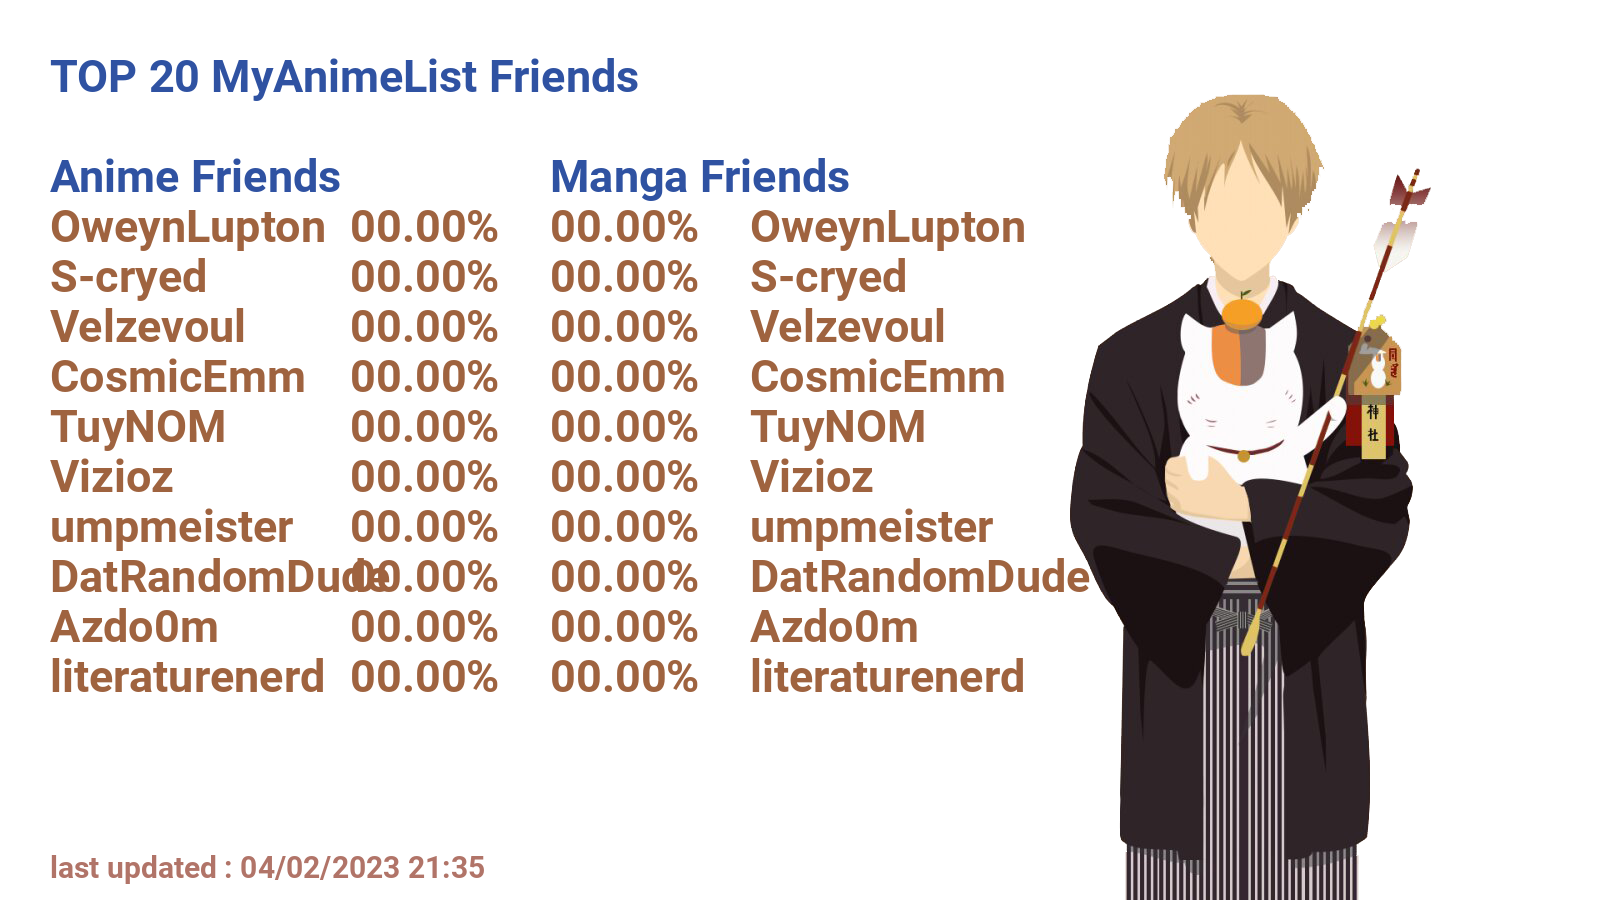
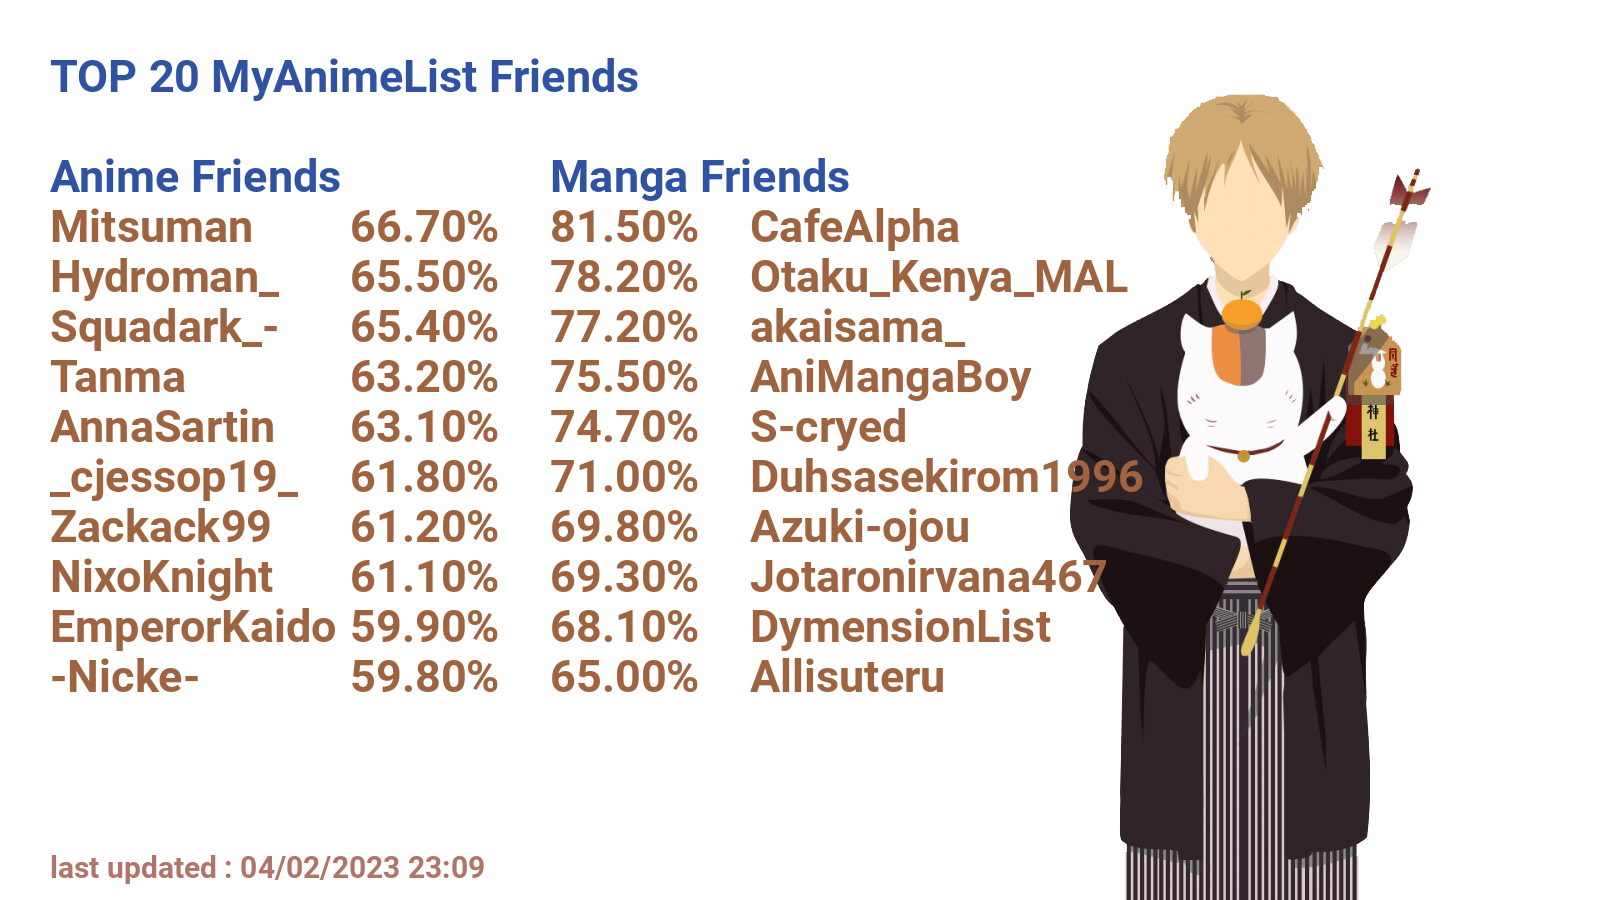
updates

diff --git a/AffinityScraperMAL/spiders/weebo.py b/AffinityScraperMAL/spiders/weebo.py
@@ -51,37 +51,35 @@ for i in range(0,len(friend_names)):
 
 class MAL_spider(scrapy.Spider):
     name = 'weebo'
-    mal_login_url = 'https://myanimelist.net/login.php'
+    mal_login_url = 'https://myanimelist.net/'
     start_urls = [mal_login_url]
 
     user_name = AffinityScraperMAL.spiders.credentials.user_name
     password = AffinityScraperMAL.spiders.credentials.password
-    chrome_options = Options()
-    #chrome_options.add_argument("--disable-gpu")
-    chrome_options.add_argument("--headless")
-    global driver
-    driver = webdriver.Chrome(options=chrome_options)
-
-    driver.get('https://myanimelist.net/login.php')
-    if("Login" in driver.title):
-        id_box = driver.find_element(By.NAME, 'user_name')
-        id_box.send_keys(user_name)
-        password_box = driver.find_element(By.NAME, 'password')
-        password_box.send_keys(password)
-        login_button = driver.find_element(By.CLASS_NAME, "btn-form-submit")
-        driver.execute_script("arguments[0].click();", login_button)
-        #login_button.click()
-    time.sleep(1)
-
-    token = None
+#    token = None
 
     def parse(self, response):
-        if self.password == '':
-            self.logger.error('first add a pasword')
-            return
-        self.token = response.xpath('//meta[@name="csrf_token"]/@content').extract()
-        self.log('token {}'.format(self.token))
+#        if self.password == '':
+#            self.logger.error('first add a pasword')
+#            return
+#        self.token = response.xpath('//meta[@name="csrf_token"]/@content').extract()
+#        self.log('token {}'.format(self.token))
+        chrome_options = Options()
+        #chrome_options.add_argument("--disable-gpu")
+        chrome_options.add_argument("--headless")
+        global driver
+        driver = webdriver.Chrome(options=chrome_options)
 
+        driver.get('https://myanimelist.net/login.php')
+        if("Login" in driver.title):
+            id_box = driver.find_element(By.NAME, 'user_name')
+            id_box.send_keys(self.user_name)
+            password_box = driver.find_element(By.NAME, 'password')
+            password_box.send_keys(self.password)
+            login_button = driver.find_element(By.CLASS_NAME, "btn-form-submit")
+            driver.execute_script("arguments[0].click();", login_button)
+            #login_button.click()
+        time.sleep(1)
         return [FormRequest(
                     url = self.mal_login_url,
                     cookies=driver.get_cookies(),
@@ -97,16 +95,23 @@ class MAL_spider(scrapy.Spider):
                 callback=self.action)
 
     def action(self, response):
-        affinity = response.xpath('/html/body/div[1]/div[2]/div[3]/div[2]/div/div[1]/div/div[4]/div[2]/div[2]/span/text()').get()
-        affinitymanga = response.xpath('/html/body/div[1]/div[2]/div[3]/div[2]/div/div[1]/div/div[4]/div[4]/div[2]/span/text()').get()
+        #affinity = response.xpath('/html/body/div[1]/div[2]/div[3]/div[2]/div/div[1]/div/div[4]/div[2]/div[2]/span/text()').get()
+        affinity = response.xpath("//div[contains(@class,'bar-outer anime')]/div[contains(@class,'bar-outer-positive al')]/span/text()").get()
+        #affinitymanga = response.xpath('/html/body/div[1]/div[2]/div[3]/div[2]/div/div[1]/div/div[4]/div[4]/div[2]/span/text()').get()
+        affinitymanga = response.xpath("//div[contains(@class,'bar-outer manga')]/div[contains(@class,'bar-outer-positive al')]/span/text()").get()
         pureaff = str(affinity).replace('%','').replace('\xa0\xa0','').replace('None','0')
         pureaffmanga = str(affinitymanga).replace('%','').replace('\xa0\xa0','').replace('None','0')
         pureaff = "{:05.2f}".format(float(pureaff))
         pureaffmanga = "{:05.2f}".format(float(pureaffmanga))
-        #filename = 'output2.log'
-        #f = open(filename, 'a+')
-        #f.write("%s: %s\r\n" %(response.meta['Title'] , pureaff))
-        #f.write("%s: %s\r\n" %(response.meta['Title'] , pureaffmanga))
+        filename = 'output2.log'
+        f = open(filename, 'a+')
+        #print(affinity)
+        #print(type(affinity))
+        #print(pureaff)
+        #print(pureaffmanga)
+        f.write("%s: %s\r\n" %(response.meta['Title'] , pureaff))
+        #print(affinitymanga)
+        f.write("%s: %s\r\n" %(response.meta['Title'] , pureaffmanga))
         results[response.meta['Title']]= pureaff
         resultsmanga[response.meta['Title']]= pureaffmanga
         if len(results) == len(e):
